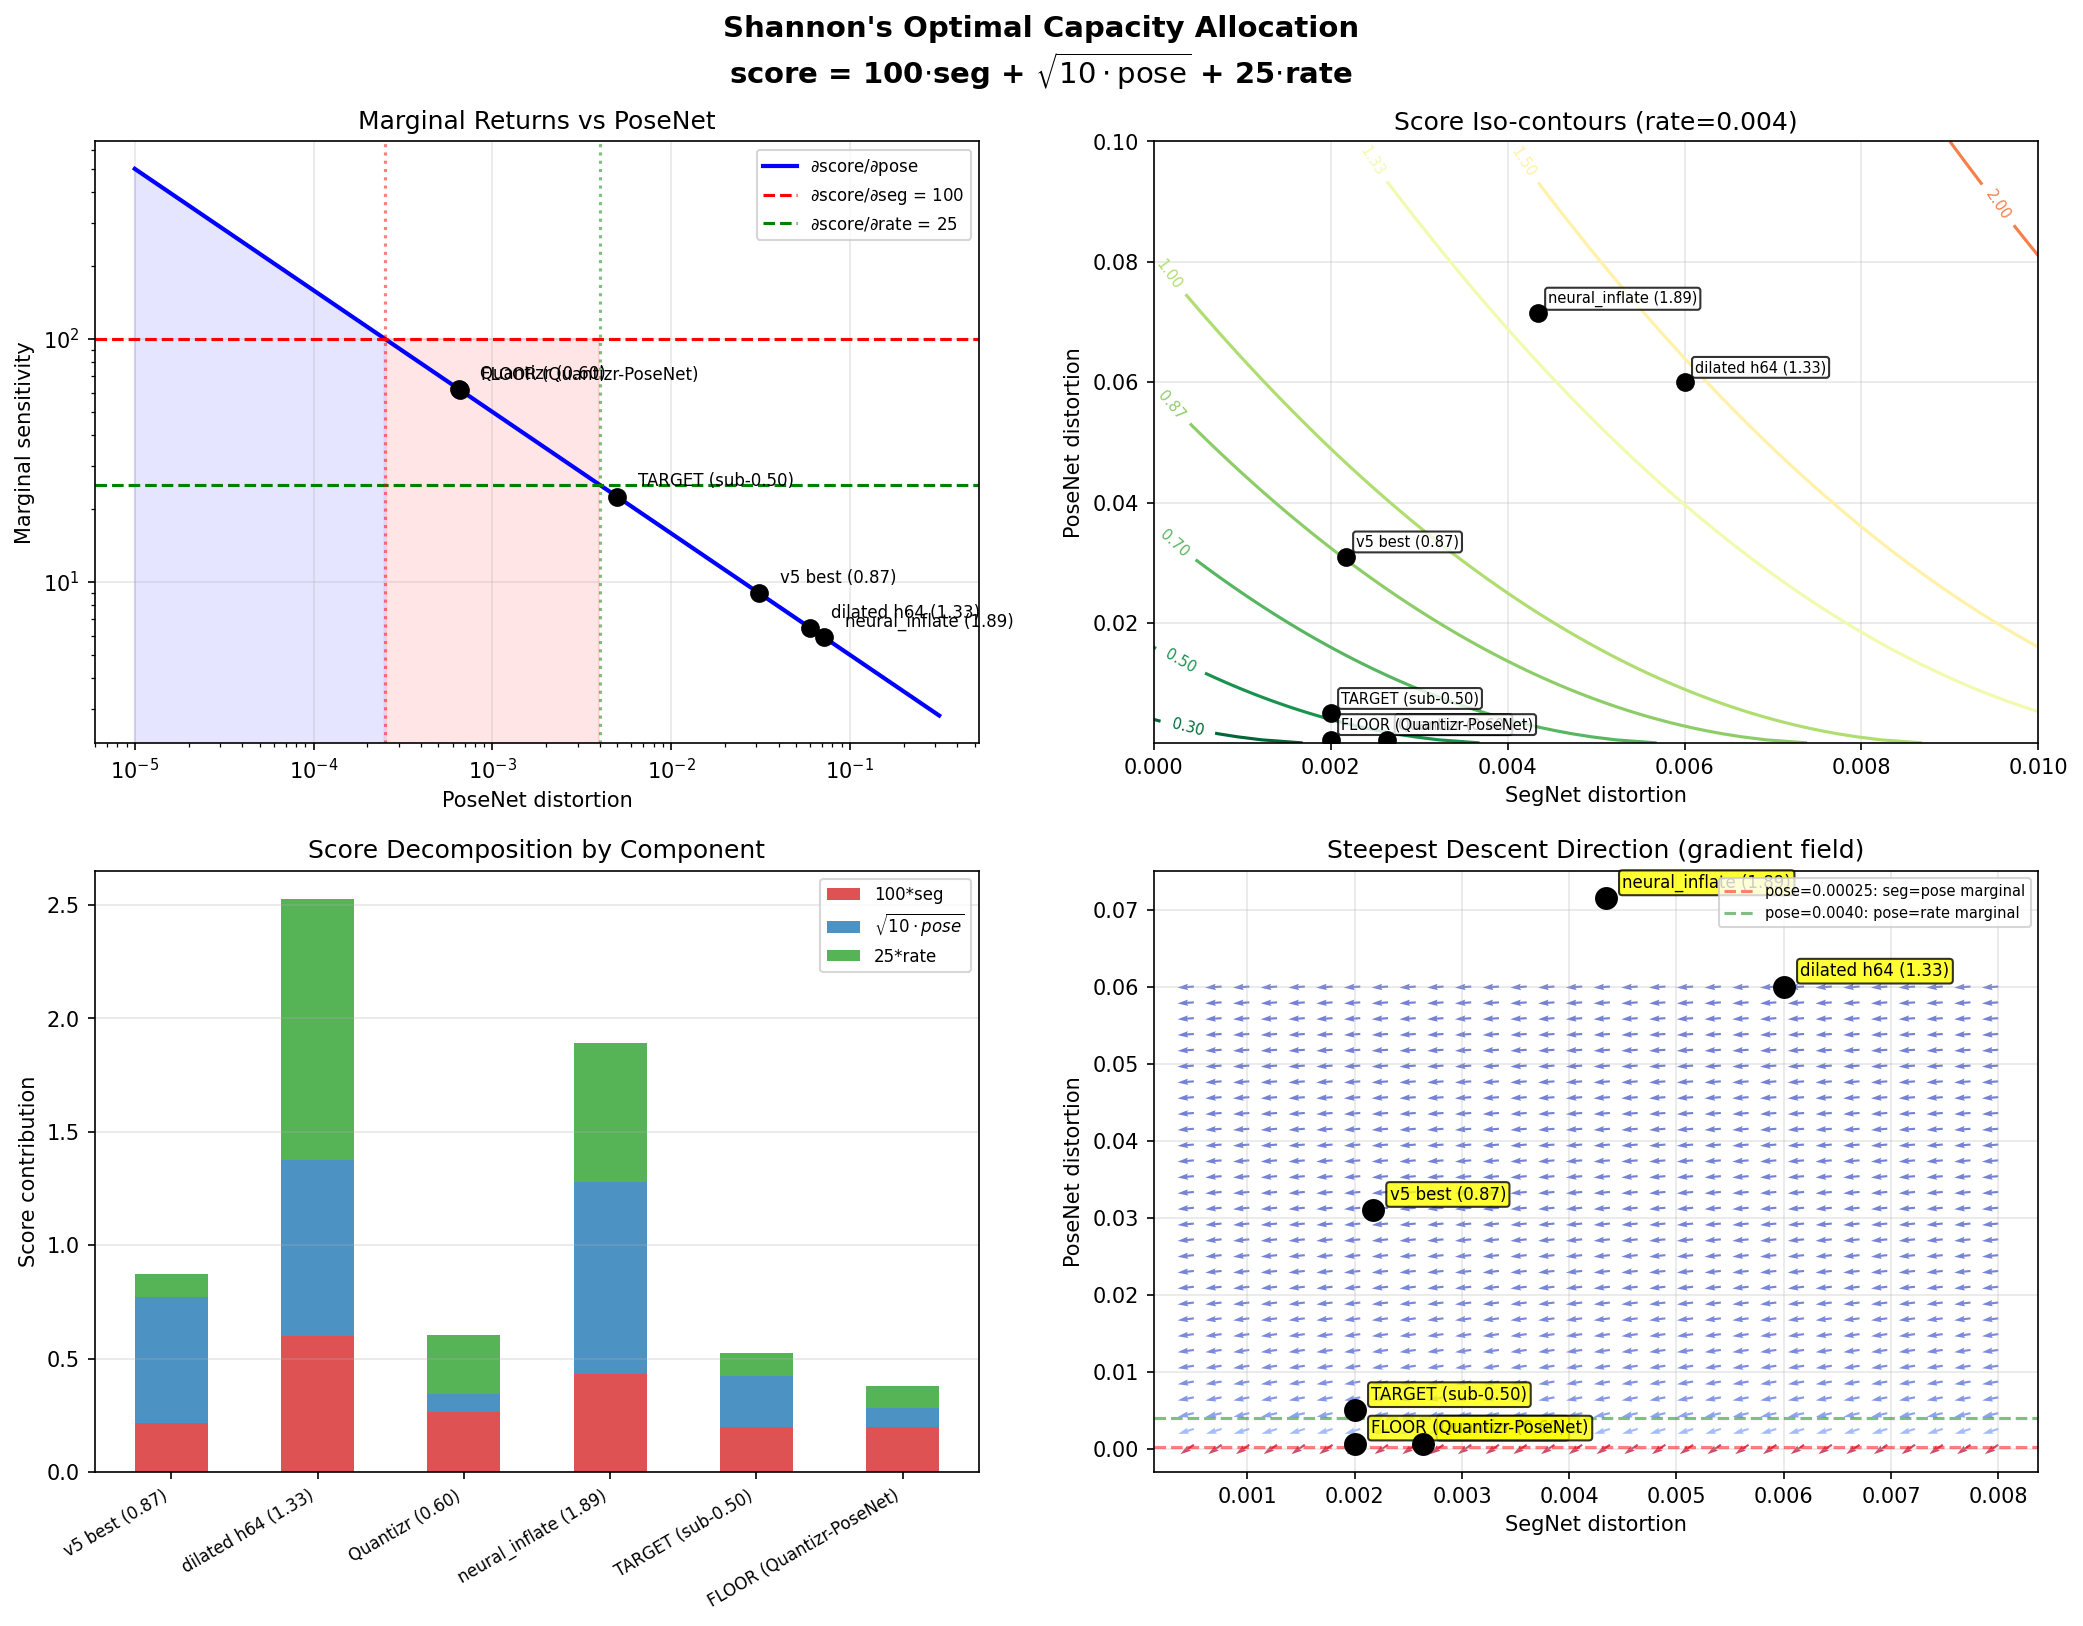
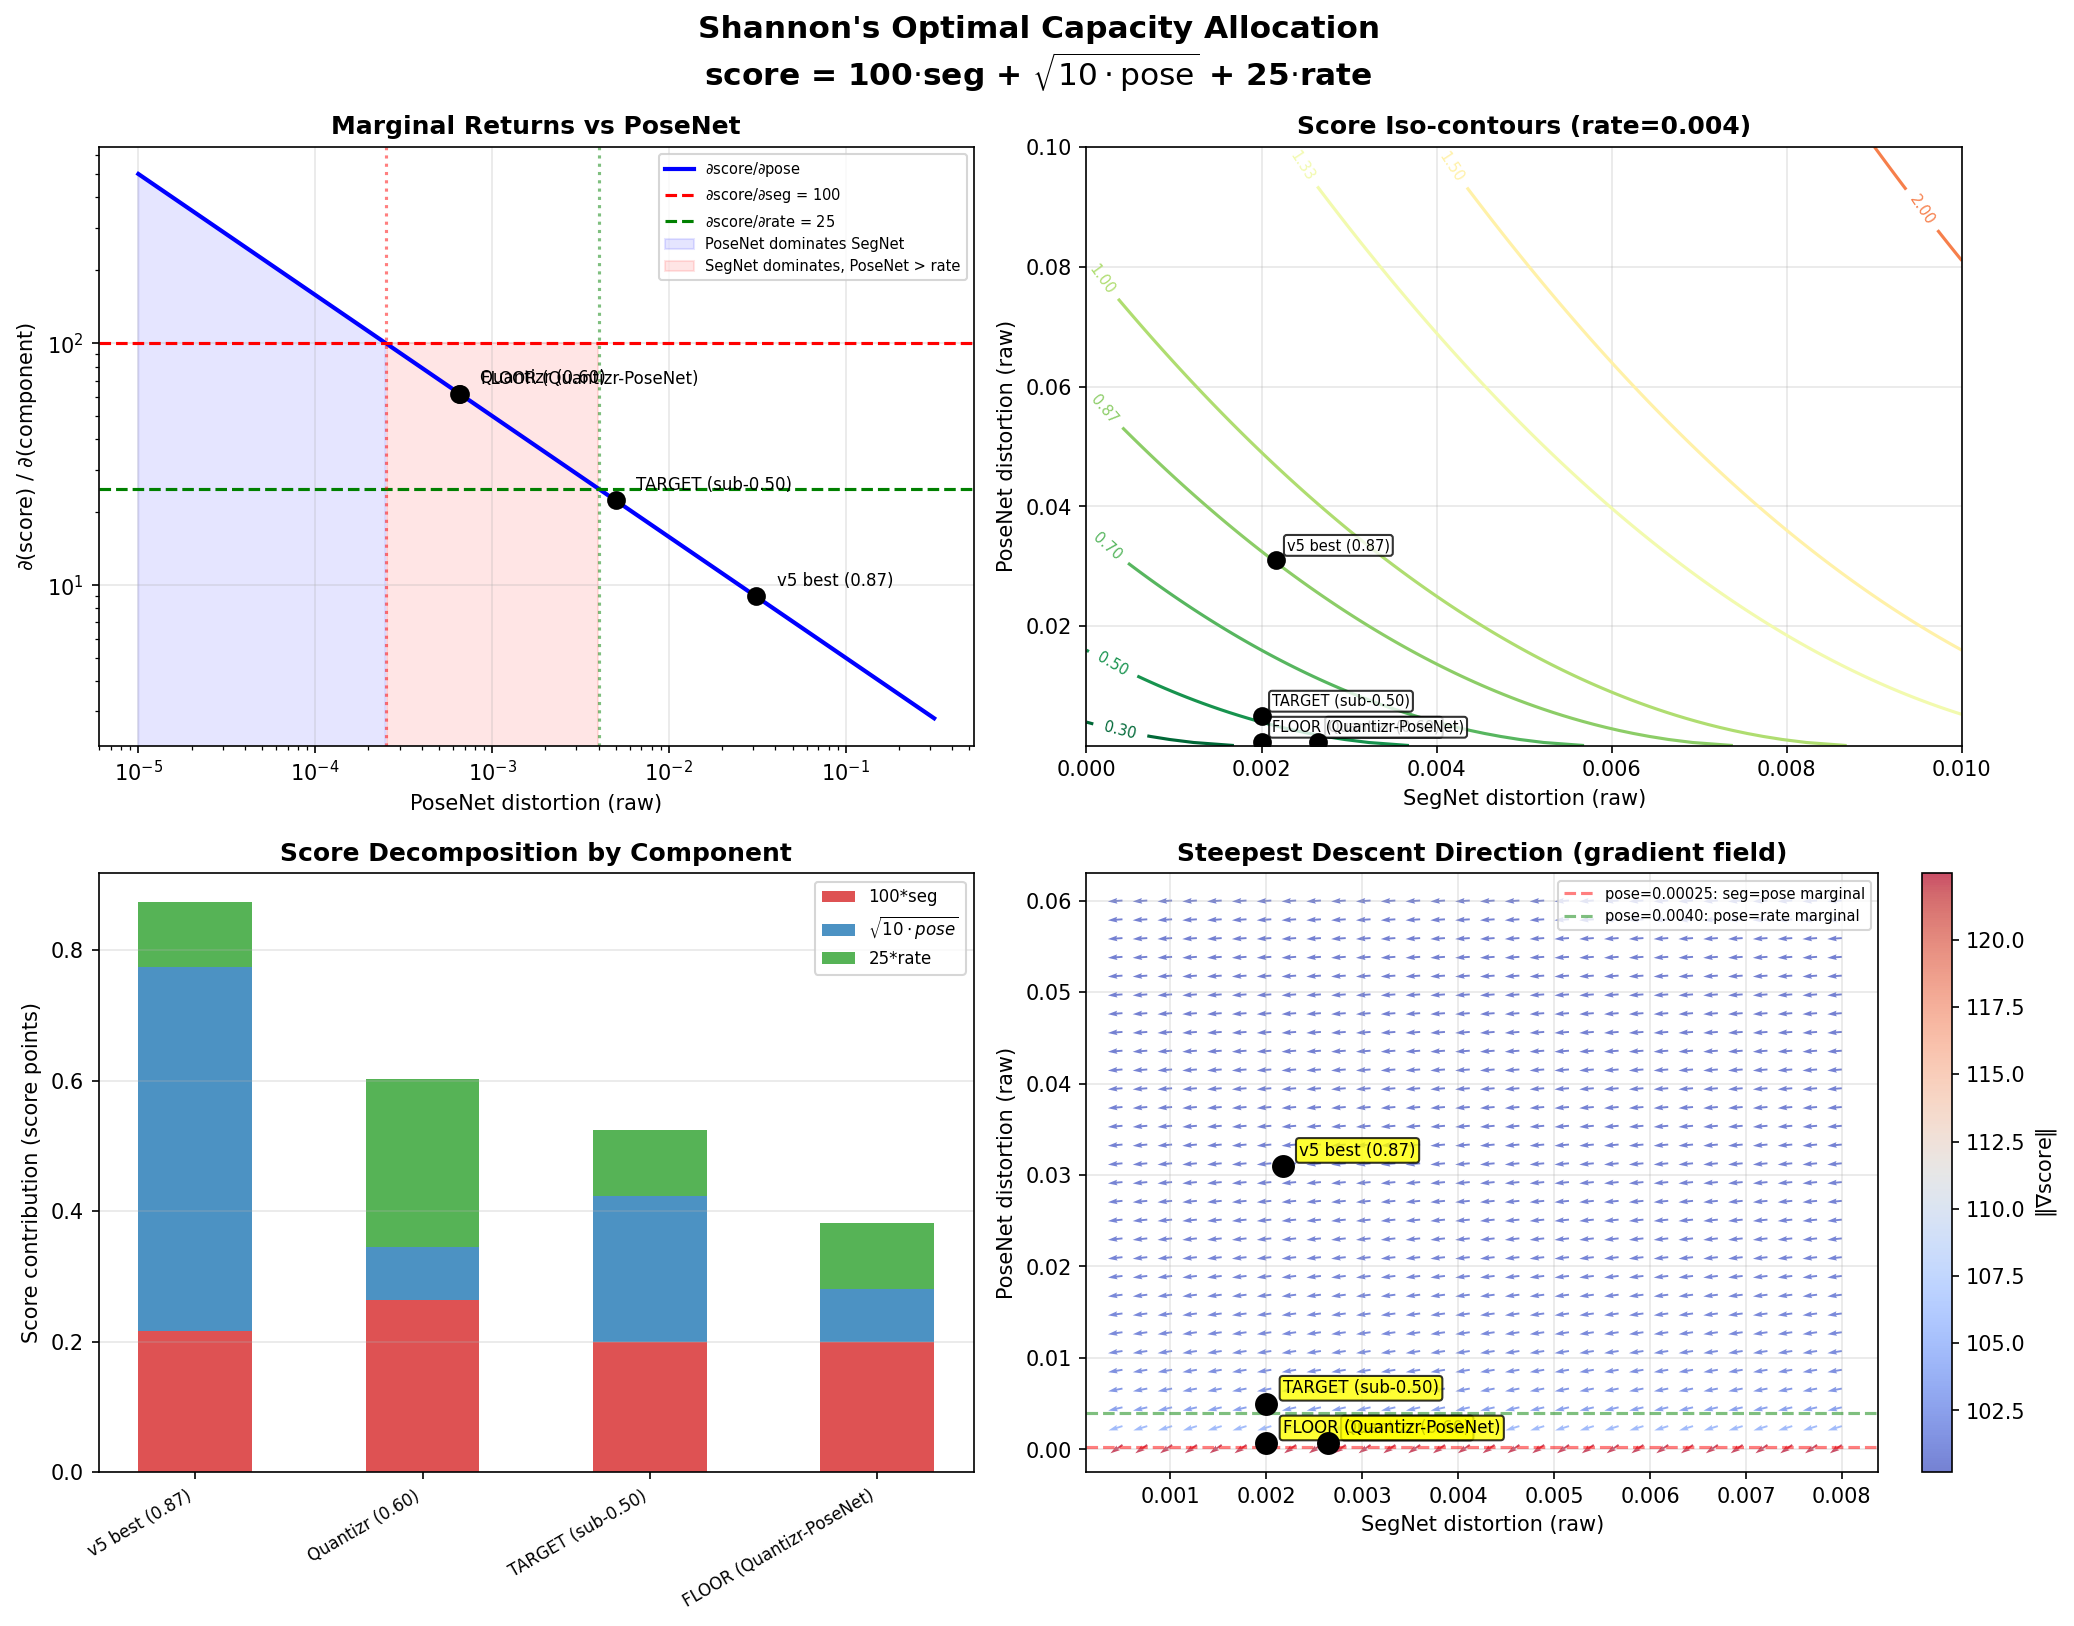
viz: fix matplotlib plots for peer-review quality
- posenet_sensitivity: aspect="equal" (was "auto" distorting spatial),
  axis units (px), LaTeX colorbar label, larger fonts
- optimal_allocation: colorbar on gradient field (Panel 4), shaded region
  labels now in legend (Panel 1), axis units, bold titles, font sizing
- gradient_rank_analysis: proper LaTeX y-axis label for normalized SVs,
  Shannon entropy label on effective rank, larger figure and fonts

diff --git a/experiments/analysis/optimal_allocation.py b/experiments/analysis/optimal_allocation.py
@@ -180,7 +180,7 @@ def plot_optimal_allocation(operating_points: list[dict], save_path: str) -> Non
     fig.suptitle(
         "Shannon's Optimal Capacity Allocation\n"
         r"score = 100$\cdot$seg + $\sqrt{10\cdot\mathrm{pose}}$ + 25$\cdot$rate",
-        fontsize=14, fontweight="bold",
+        fontsize=15, fontweight="bold", y=0.98,
     )
 
     # --- Panel 1: Marginal sensitivity as function of pose ---
@@ -203,16 +203,16 @@ def plot_optimal_allocation(operating_points: list[dict], save_path: str) -> Non
             op["label"], (op["pose"], dp_val),
             textcoords="offset points", xytext=(10, 5), fontsize=8,
         )
-    ax1.set_xlabel("PoseNet distortion")
-    ax1.set_ylabel("Marginal sensitivity")
-    ax1.set_title("Marginal Returns vs PoseNet")
-    ax1.legend(fontsize=8)
+    ax1.set_xlabel("PoseNet distortion (raw)", fontsize=10)
+    ax1.set_ylabel(r"$\partial$(score) / $\partial$(component)", fontsize=10)
+    ax1.set_title("Marginal Returns vs PoseNet", fontsize=12, fontweight="bold")
     ax1.grid(True, alpha=0.3)
-    # Shade regions
+    # Shade regions (before legend so labels appear)
     ax1.fill_between(pose_range, 0, dp, where=(dp > 100), alpha=0.1, color="blue",
-                     label="PoseNet dominates")
+                     label="PoseNet dominates SegNet")
     ax1.fill_between(pose_range, 0, np.full_like(pose_range, 100), where=(dp < 100) & (dp > 25),
-                     alpha=0.1, color="red")
+                     alpha=0.1, color="red", label="SegNet dominates, PoseNet > rate")
+    ax1.legend(fontsize=7, loc="upper right")
 
     # --- Panel 2: Score iso-contours in (seg, pose) space ---
     ax2 = axes[0, 1]
@@ -231,9 +231,9 @@ def plot_optimal_allocation(operating_points: list[dict], save_path: str) -> Non
             textcoords="offset points", xytext=(5, 5), fontsize=7,
             bbox=dict(boxstyle="round,pad=0.2", facecolor="white", alpha=0.8),
         )
-    ax2.set_xlabel("SegNet distortion")
-    ax2.set_ylabel("PoseNet distortion")
-    ax2.set_title("Score Iso-contours (rate=0.004)")
+    ax2.set_xlabel("SegNet distortion (raw)", fontsize=10)
+    ax2.set_ylabel("PoseNet distortion (raw)", fontsize=10)
+    ax2.set_title("Score Iso-contours (rate=0.004)", fontsize=12, fontweight="bold")
     ax2.grid(True, alpha=0.3)
 
     # --- Panel 3: Score contribution breakdown bar chart ---
@@ -252,8 +252,8 @@ def plot_optimal_allocation(operating_points: list[dict], save_path: str) -> Non
             label="25*rate", color="tab:green", alpha=0.8)
     ax3.set_xticks(x)
     ax3.set_xticklabels(labels, rotation=30, ha="right", fontsize=8)
-    ax3.set_ylabel("Score contribution")
-    ax3.set_title("Score Decomposition by Component")
+    ax3.set_ylabel("Score contribution (score points)", fontsize=10)
+    ax3.set_title("Score Decomposition by Component", fontsize=12, fontweight="bold")
     ax3.legend(fontsize=8)
     ax3.grid(True, alpha=0.3, axis="y")
 
@@ -269,7 +269,8 @@ def plot_optimal_allocation(operating_points: list[dict], save_path: str) -> Non
     GPOSE = np.sqrt(10.0) / (2.0 * np.sqrt(PO))
     # Normalize for display
     MAG = np.sqrt(GSEG**2 + GPOSE**2)
-    ax4.quiver(SG, PO, -GSEG / MAG, -GPOSE / MAG, MAG, cmap="coolwarm", alpha=0.7)
+    q = ax4.quiver(SG, PO, -GSEG / MAG, -GPOSE / MAG, MAG, cmap="coolwarm", alpha=0.7)
+    plt.colorbar(q, ax=ax4, label=r"$\|\nabla\mathrm{score}\|$", fraction=0.046)
     for op in operating_points:
         ax4.plot(op["seg"], op["pose"], "ko", markersize=10, zorder=5)
         ax4.annotate(
@@ -283,9 +284,9 @@ def plot_optimal_allocation(operating_points: list[dict], save_path: str) -> Non
                 label=f"pose={pose_seg_xover:.5f}: seg=pose marginal")
     ax4.axhline(pose_rate_xover, color="green", linestyle="--", alpha=0.5,
                 label=f"pose={pose_rate_xover:.4f}: pose=rate marginal")
-    ax4.set_xlabel("SegNet distortion")
-    ax4.set_ylabel("PoseNet distortion")
-    ax4.set_title("Steepest Descent Direction (gradient field)")
+    ax4.set_xlabel("SegNet distortion (raw)", fontsize=10)
+    ax4.set_ylabel("PoseNet distortion (raw)", fontsize=10)
+    ax4.set_title("Steepest Descent Direction (gradient field)", fontsize=12, fontweight="bold")
     ax4.legend(fontsize=7, loc="upper right")
     ax4.grid(True, alpha=0.3)
 

diff --git a/experiments/analysis/posenet_sensitivity.py b/experiments/analysis/posenet_sensitivity.py
@@ -211,23 +211,26 @@ def visualize_sensitivity(
     import matplotlib.pyplot as plt
     import matplotlib.patches as mpatches
 
-    fig, axes = plt.subplots(1, 2, figsize=(16, 6))
+    fig, axes = plt.subplots(1, 2, figsize=(16, 7))
 
     # Left: raw sensitivity heatmap
     sm_np = sensitivity_map.numpy()
-    im = axes[0].imshow(sm_np, cmap="hot", aspect="auto")
-    axes[0].set_title("PoseNet Gradient Sensitivity Map")
-    axes[0].set_xlabel("Width")
-    axes[0].set_ylabel("Height")
-    plt.colorbar(im, ax=axes[0], label="Gradient Magnitude")
+    im = axes[0].imshow(sm_np, cmap="hot", aspect="equal")
+    axes[0].set_title("PoseNet Gradient Sensitivity Map", fontsize=13, fontweight="bold")
+    axes[0].set_xlabel("Width (px)", fontsize=11)
+    axes[0].set_ylabel("Height (px)", fontsize=11)
+    cb1 = plt.colorbar(im, ax=axes[0], label="Gradient Magnitude (L2 norm)", fraction=0.046)
+    cb1.ax.tick_params(labelsize=9)
 
     # Right: log-scale with patch overlay
     sm_log = np.log1p(sm_np)
-    im2 = axes[1].imshow(sm_log, cmap="hot", aspect="auto")
-    axes[1].set_title(f"Log Sensitivity + Top-{n_show} Insensitive Patches")
-    axes[1].set_xlabel("Width")
-    axes[1].set_ylabel("Height")
-    plt.colorbar(im2, ax=axes[1], label="log(1 + Gradient Magnitude)")
+    im2 = axes[1].imshow(sm_log, cmap="hot", aspect="equal")
+    axes[1].set_title(f"Log Sensitivity + Top-{n_show} Insensitive Patches",
+                      fontsize=13, fontweight="bold")
+    axes[1].set_xlabel("Width (px)", fontsize=11)
+    axes[1].set_ylabel("Height (px)", fontsize=11)
+    cb2 = plt.colorbar(im2, ax=axes[1], label=r"$\ln(1 + \|\nabla\|_2)$", fraction=0.046)
+    cb2.ax.tick_params(labelsize=9)
 
     if top_k_patches:
         for i, p in enumerate(top_k_patches[:n_show]):

diff --git a/experiments/analysis/gradient_rank_analysis.py b/experiments/analysis/gradient_rank_analysis.py
@@ -258,10 +258,10 @@ def plot_spectra(
     matplotlib.use("Agg")
     import matplotlib.pyplot as plt
 
-    fig, axes = plt.subplots(1, 3, figsize=(16, 5))
+    fig, axes = plt.subplots(1, 3, figsize=(18, 6))
     fig.suptitle(
         "PoseNet Jacobian Rank Analysis: Output (6-dim) vs Embedding",
-        fontsize=13, fontweight="bold",
+        fontsize=14, fontweight="bold", y=0.98,
     )
 
     # Panel 1: Singular value spectra (normalized)
@@ -278,9 +278,9 @@ def plot_spectra(
         ax1.semilogy(range(1, len(sv_norm) + 1), sv_norm, "b.-",
                      markersize=3, linewidth=1, alpha=0.6,
                      label=f"Embedding (pair {r.get('pair_idx', '?')})")
-    ax1.set_xlabel("Singular value index")
-    ax1.set_ylabel("Normalized singular value (log scale)")
-    ax1.set_title("Singular Value Spectrum")
+    ax1.set_xlabel("Singular value index", fontsize=11)
+    ax1.set_ylabel(r"$\sigma_i / \sigma_1$ (normalized, log scale)", fontsize=11)
+    ax1.set_title("Singular Value Spectrum", fontsize=12, fontweight="bold")
     ax1.legend(fontsize=7)
     ax1.grid(True, alpha=0.3)
 
@@ -302,9 +302,9 @@ def plot_spectra(
         ax2.text(i - width/2, r + 0.1, f"{r:.1f}/{m}", ha="center", fontsize=7)
     for i, (r, m) in enumerate(zip(emb_ranks, emb_max)):
         ax2.text(i + width/2, r + 0.5, f"{r:.1f}/{m}", ha="center", fontsize=7)
-    ax2.set_xlabel("Frame pair index")
-    ax2.set_ylabel("Effective rank")
-    ax2.set_title("Effective Rank: Output vs Embedding")
+    ax2.set_xlabel("Frame pair index", fontsize=11)
+    ax2.set_ylabel("Effective rank (Shannon entropy)", fontsize=11)
+    ax2.set_title("Effective Rank: Output vs Embedding", fontsize=12, fontweight="bold")
     ax2.legend(fontsize=8)
     ax2.grid(True, alpha=0.3, axis="y")
 